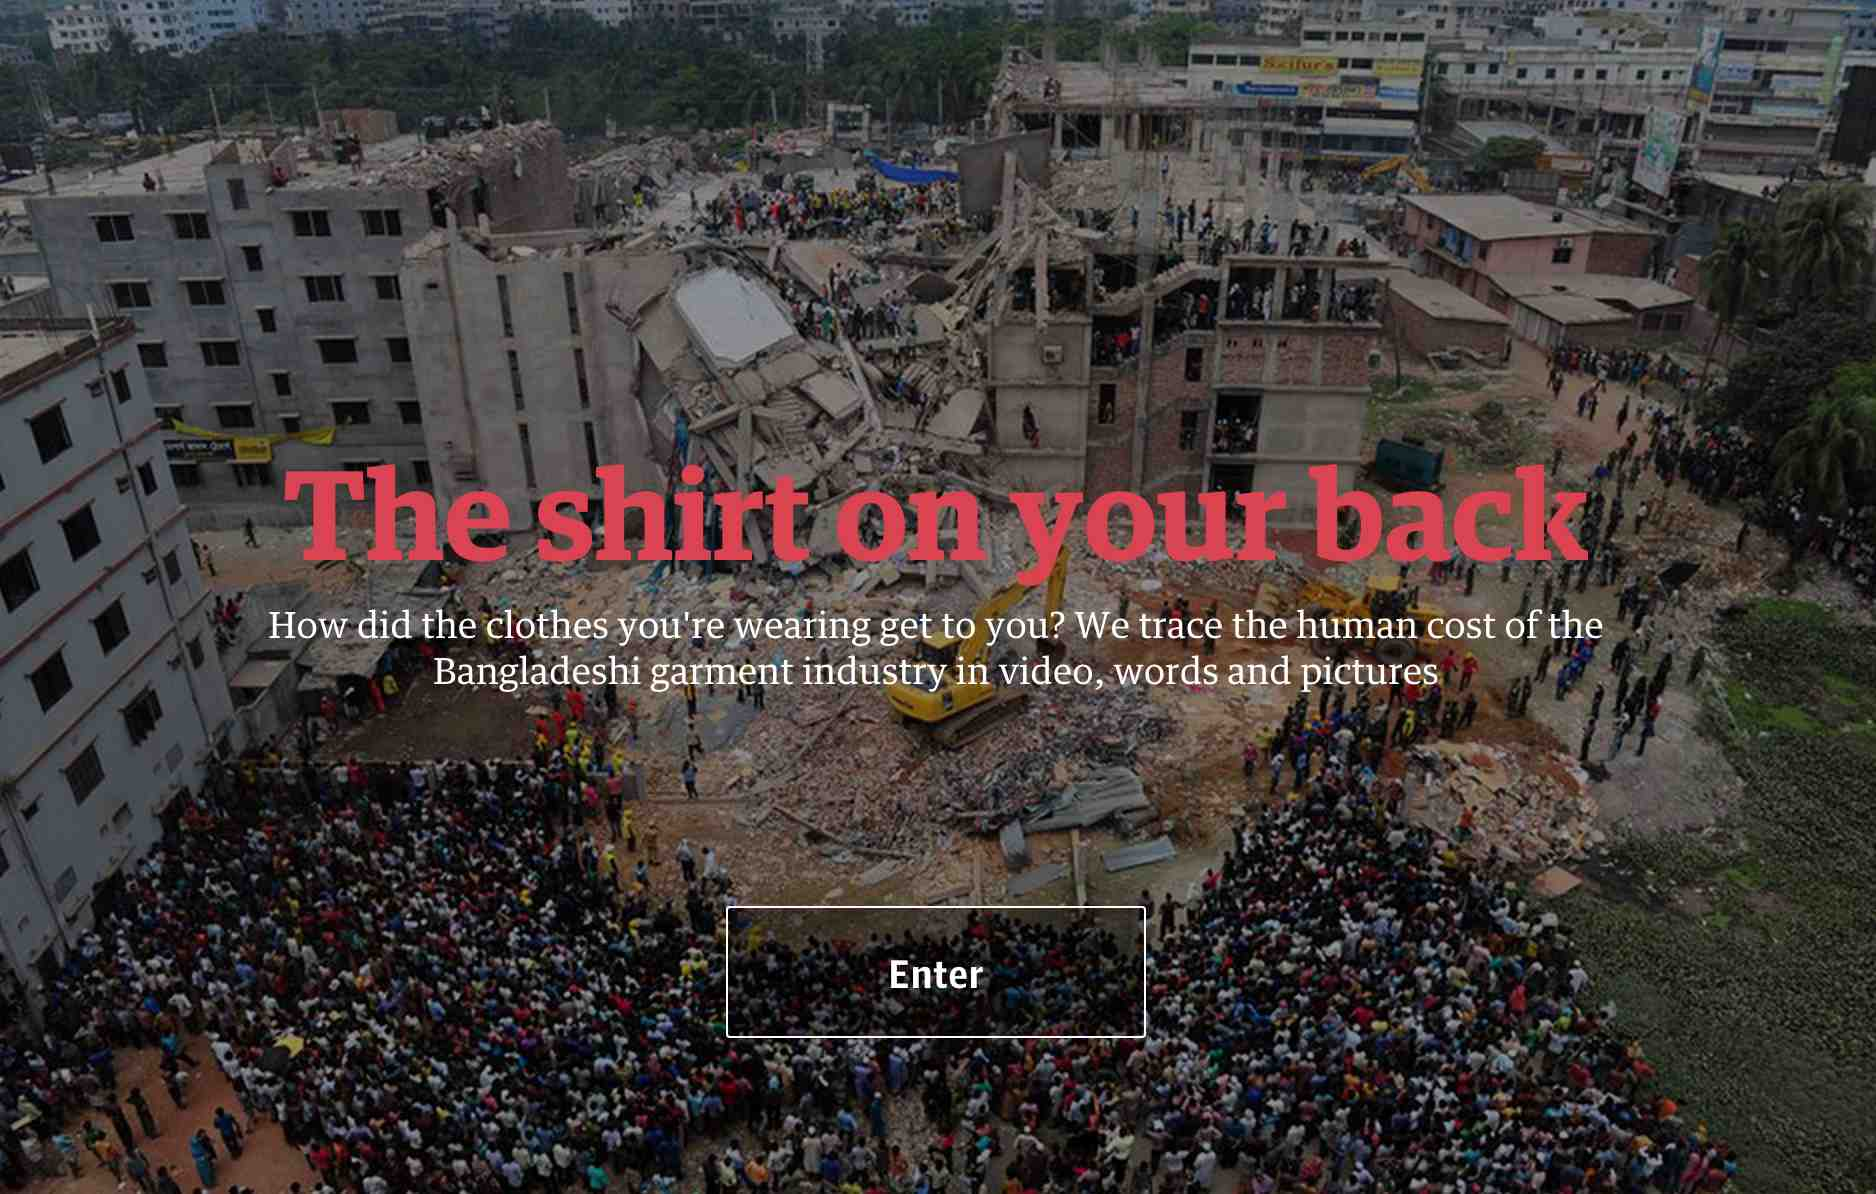
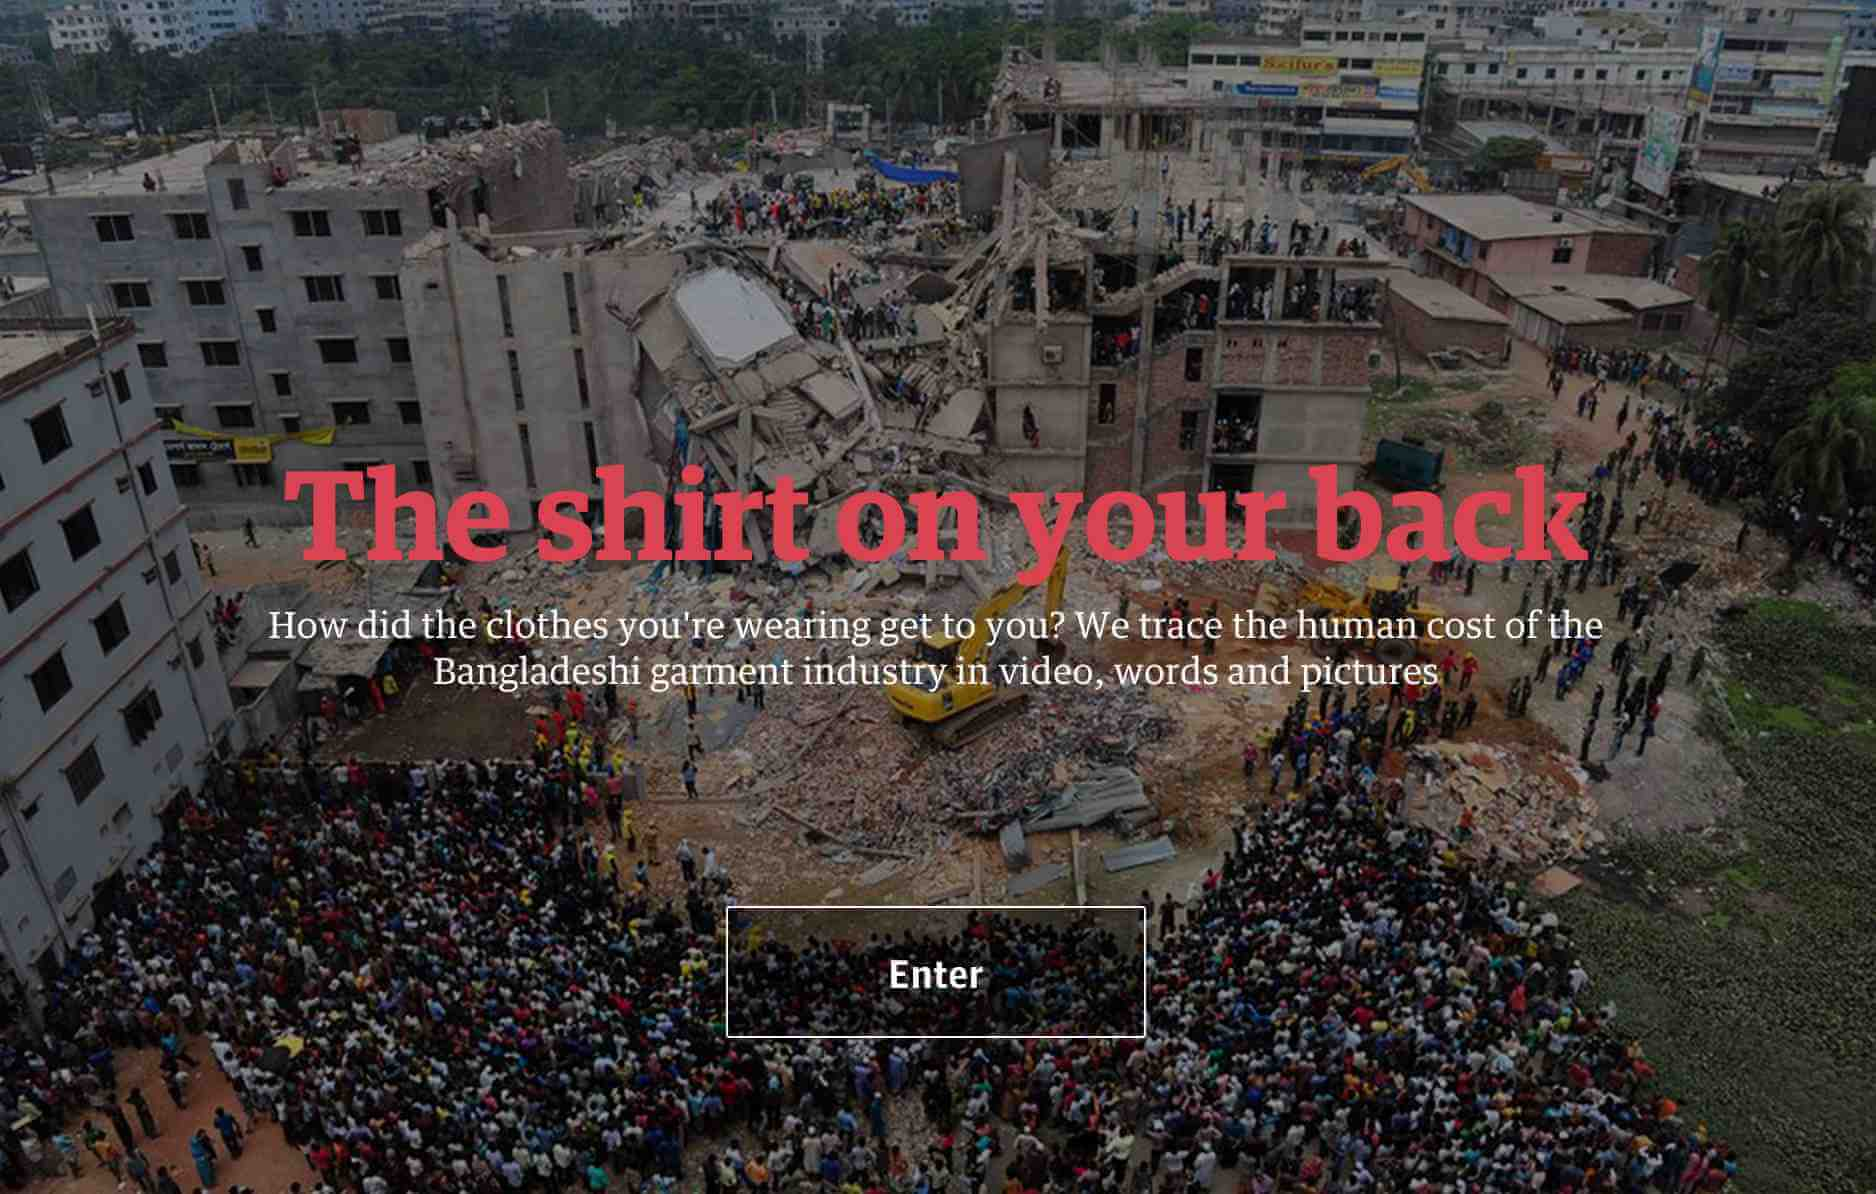
updated with compressed images

diff --git a/public/stylesheets/style.css b/public/stylesheets/style.css
@@ -455,8 +455,9 @@ a.btn {
     color: white;
 }
 
-.sub-container-pink a:hover {
-    background-color: green;
+.sub-container-pink a {
+    text-decoration: none;
+    color: white;
 }
 
 .sub-container h2 {
